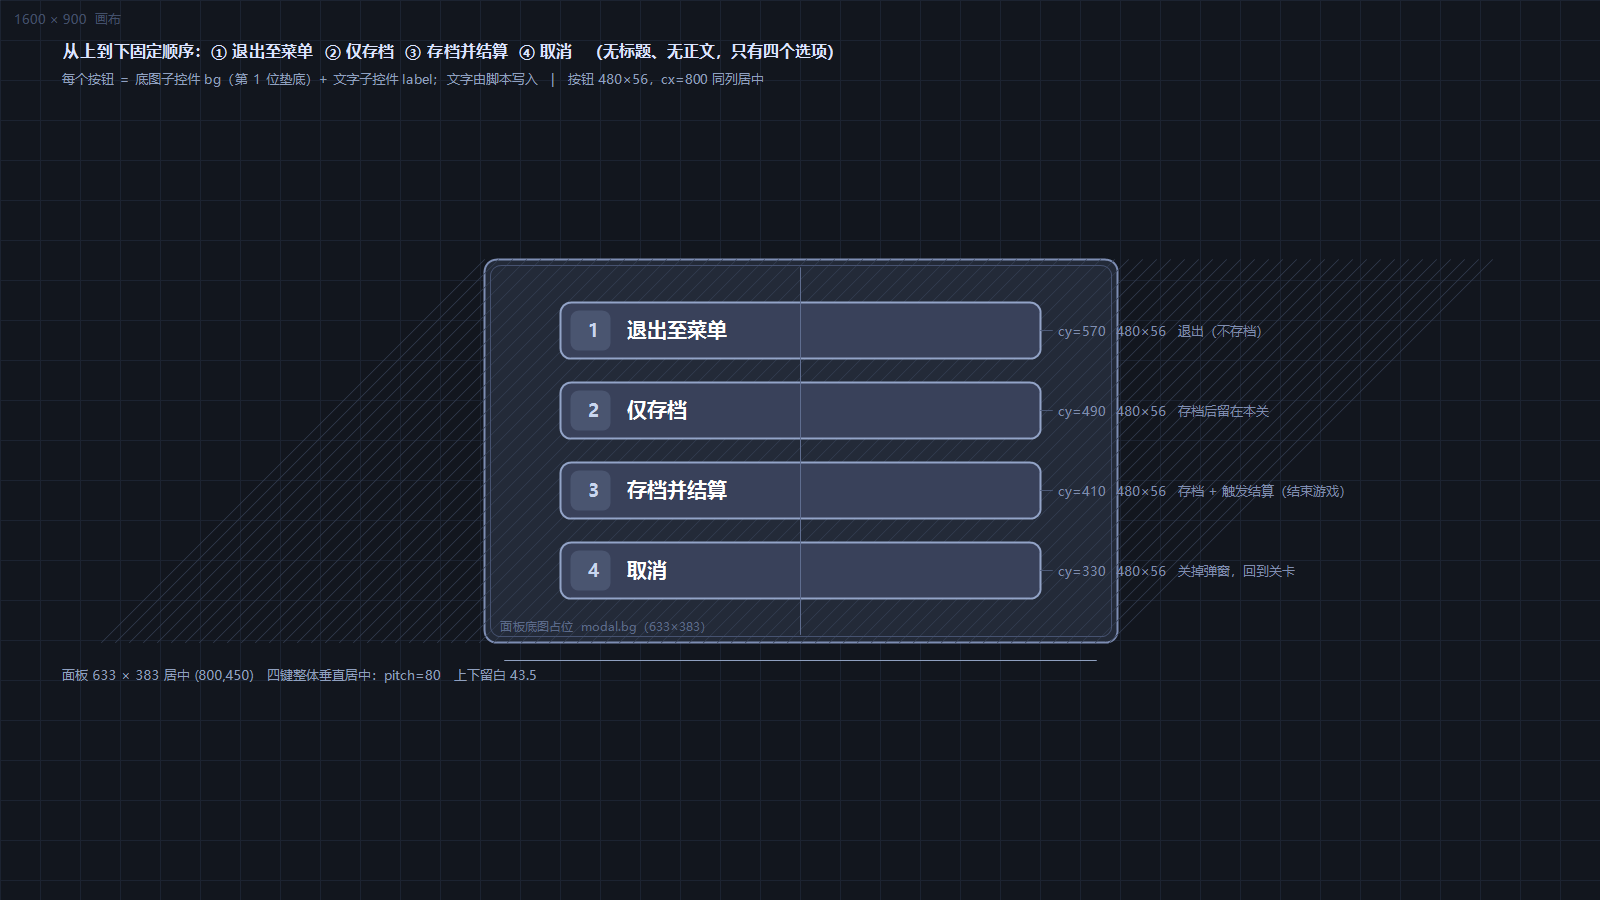
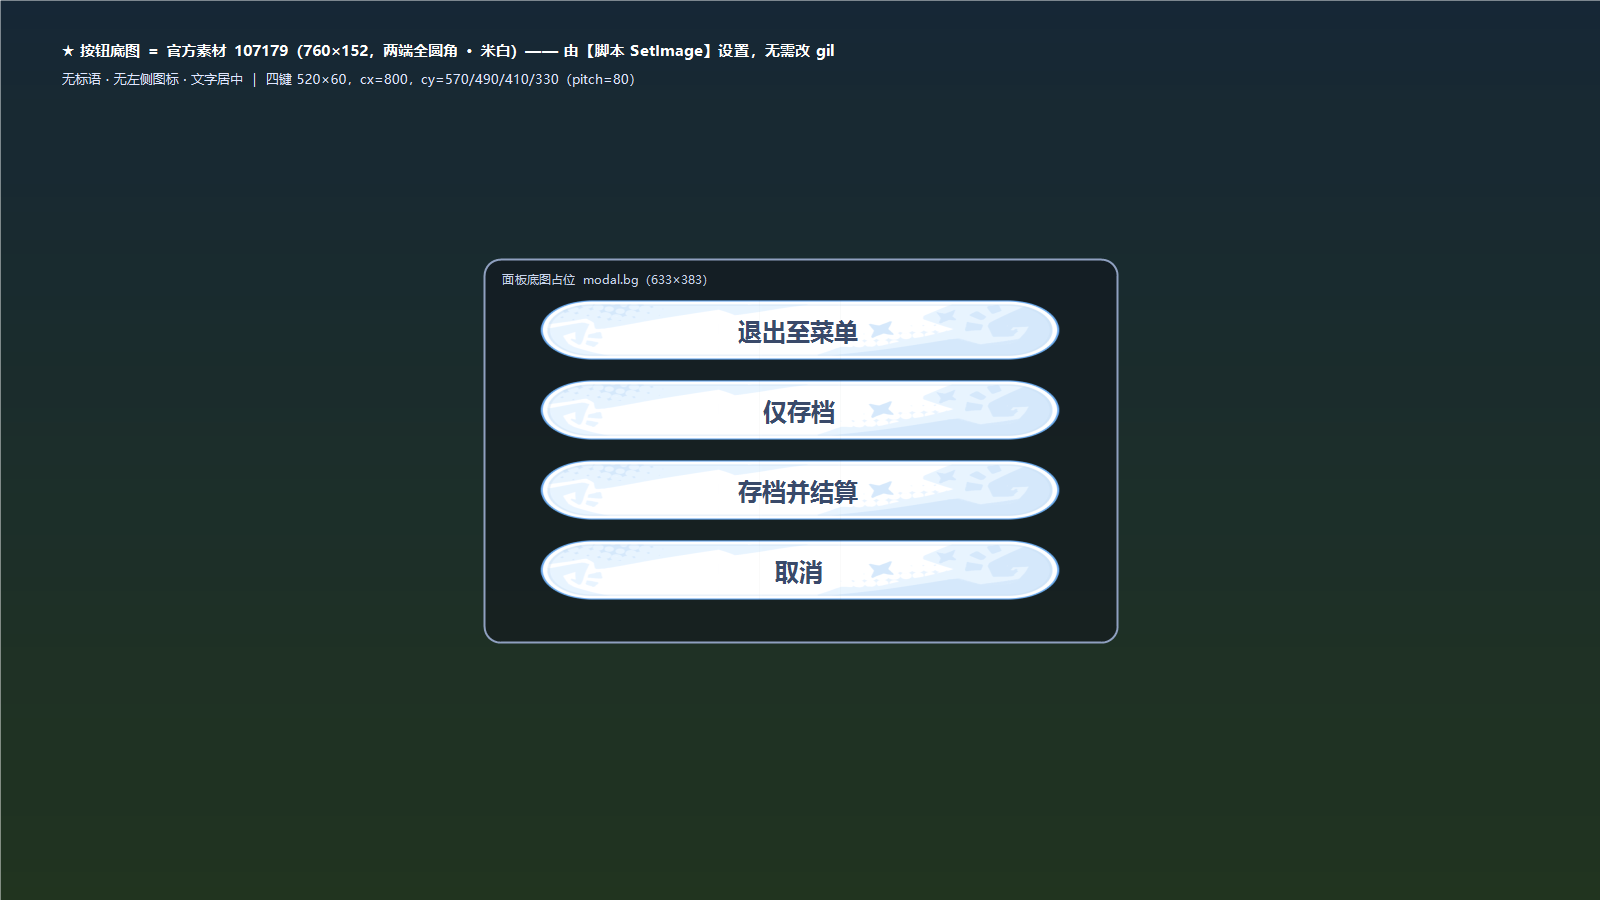
284: give the four dialog keys their official capsule artwork from the script, which the project own note already recommends for official sprites because the image, colour, size and position can all be set at runtime. Four rounds of save editing were spent on the same record array without producing 

diff --git a/docs/gil增删记录-避开手工下标.md b/docs/gil增删记录-避开手工下标.md
@@ -1,0 +1,74 @@
+# 往 `.gil` 里增删记录要避开手工下标
+
+> 2026-10-07 血泪总结。起因：给弹窗四键配底图（把 4 个 `bg` 子控件换成"整份克隆 `home.select.bg`"），
+> **连错四轮**，四份产物全部作废。本文只记可复用的纪律与未结项，不复述过程。
+
+## 一、三条必须记住的
+
+### 1. 内存断言过 ≠ 落盘复读过 ⇒ **写盘后必须重新解析再断言一次**
+
+第四轮的实测：
+
+| 阶段 | 结果 |
+|---|---|
+| `--probe` 内存断言（插入逻辑正确性） | **4/4 全过**（`路径差=0`、图对 `4281536672/100108`、子列表第 1 位、兄弟顺序） |
+| 写盘后 `readGil(OUT)` 复读断言 | **3/4**（其中一个按钮不过） |
+| `check_childlist_top` / 其余闸门 | 由复读结果决定 |
+
+⇒ **结论**：内存里的树是对的，不代表**编码 → 重新解析**这条往返是对的。
+凡是"改记录数组 / 动字段顺序"的工具，**必须在写盘后 `readGil` 一次并在新树上再断言**，
+断言不过就 `exit != 0` 并且**不要把文件留在交付路径上**。
+
+（这条已经写进 `tools/gil/gen_modal_art3.mjs`：写盘后 `readGil(OUT)` 复读四个按钮，不过则 exit 6。）
+
+### 2. "同一轮里混【删除】+【插入】"是高风险动作
+
+`readGil()` 给出的 `rec.index` 是**读入时**在 holder 里的下标：
+
+- 删掉一条 ⇒ 它**后面**的记录下标全部 −1；
+- 插入一条 ⇒ 它**后面**的记录下标全部 +1。
+
+于是"边算边改"时，后续记录的 `splice(rec.index + 1, …)` 会落到**别的记录内部**，
+把记录劈开 —— 表现是"文件还能解析，但某条记录的顶层 `#503` 没了/子控件丢了"，
+**`check_childlist_top` 会立刻报 exit 1**（这条闸门两次都在第一时间抓到）。
+
+**优先级（从安全到危险）**：
+
+1. ✅ **只改值**（几何、名字、图对）——不动数组，零风险；
+2. ✅ **只追加**（`holder.push(新记录)`）——不动任何已有下标；
+   摘除旧引用只改**子列表 ID 数组**，不要删记录（旧记录变成"不在任何子列表里"的孤立记录，不渲染）；
+3. ⚠ **一次性收集 + 降序应用**（`sort((a,b) => b.at - a.at)`，且 `at` 必须**当场用 `indexOf` 重算**）
+   —— 只有在**不混删除**时才安全；
+4. ❌ **边遍历边增删** —— 已连错两轮，禁止。
+
+### 3. 附带的坑（同轮踩到，一并记）
+
+- **字段对象自己就带 `.field`（字段号，是数字）**，而记录对象带 `.field`（是对象）。
+  写"兼容两种入参"的辅助函数时用 `x.field ? …` 会**静默走错分支**（实测：clone 的图对打印成 `null/null`）。
+  正确写法：`typeof x.field === 'object'`。
+- **`byName` 按"记录自己的名字"索引**：`home.select.bg` 这条记录的 `name` 其实是 `bg`
+  （父才是 `home.select`）⇒ 必须按 `父名/子名` 两级查，不能按点号路径查。
+- **引擎属性名 ↔ `.gil` 字段号全项目无记录**（`client_script.lua:8656` 还写过"这个引擎根本没有
+  `raycastTarget` 字段"）。判不了的属性**不要猜着写字段**，正确做法是**整份克隆一个已知能用的同类控件**。
+
+## 二、未结项（**根因未定位，不许猜**）
+
+**现象**：`214` 那一轮，四个 `bg` 的**内存断言 4/4 全过**，但**写盘后复读 3/4** ——
+其中一个按钮（`modal.exit`）在新树上断言不过，另外三个过。
+
+**已排除**：
+
+- 不是插入逻辑本身（内存断言证明四条都插对了：路径差 0、ID 唯一、子列表第 1 位、兄弟顺序正确）；
+- 不是克隆内容（四条 `bg` 与 `home.select.bg` 的字段路径差 = 0，图对逐条相等）。
+
+**未定位**：编码往返后**具体哪一条、哪个字段**发生变化。第四轮的复读断言只打了计数，
+**没有打印失败项与差异字段** —— 这是当时的疏漏，也是下次接手的第一件事
+（打印"哪一条 + 内存态 vs 复读态的差异字段"，再谈修法）。
+
+**当前状态**：路线已改为**脚本 + 官方素材**（见 `docs/官方素材方案-脚本一体化.md`），
+本项**不再阻塞交付**；坏档与坏工具已隔离在 `作废/`（**未删，留痕**）。
+
+## 三、交付纪律（本轮唯一做对的地方，继续保持）
+
+**自检不过就不交付，并把产物改名隔离（带 `-坏-`）移入 `作废/`，不删。**
+四轮下来没有一份没过的档被递出去；`213-弹窗四键.gil` 始终干净（`check_childlist_top` exit 0）。
